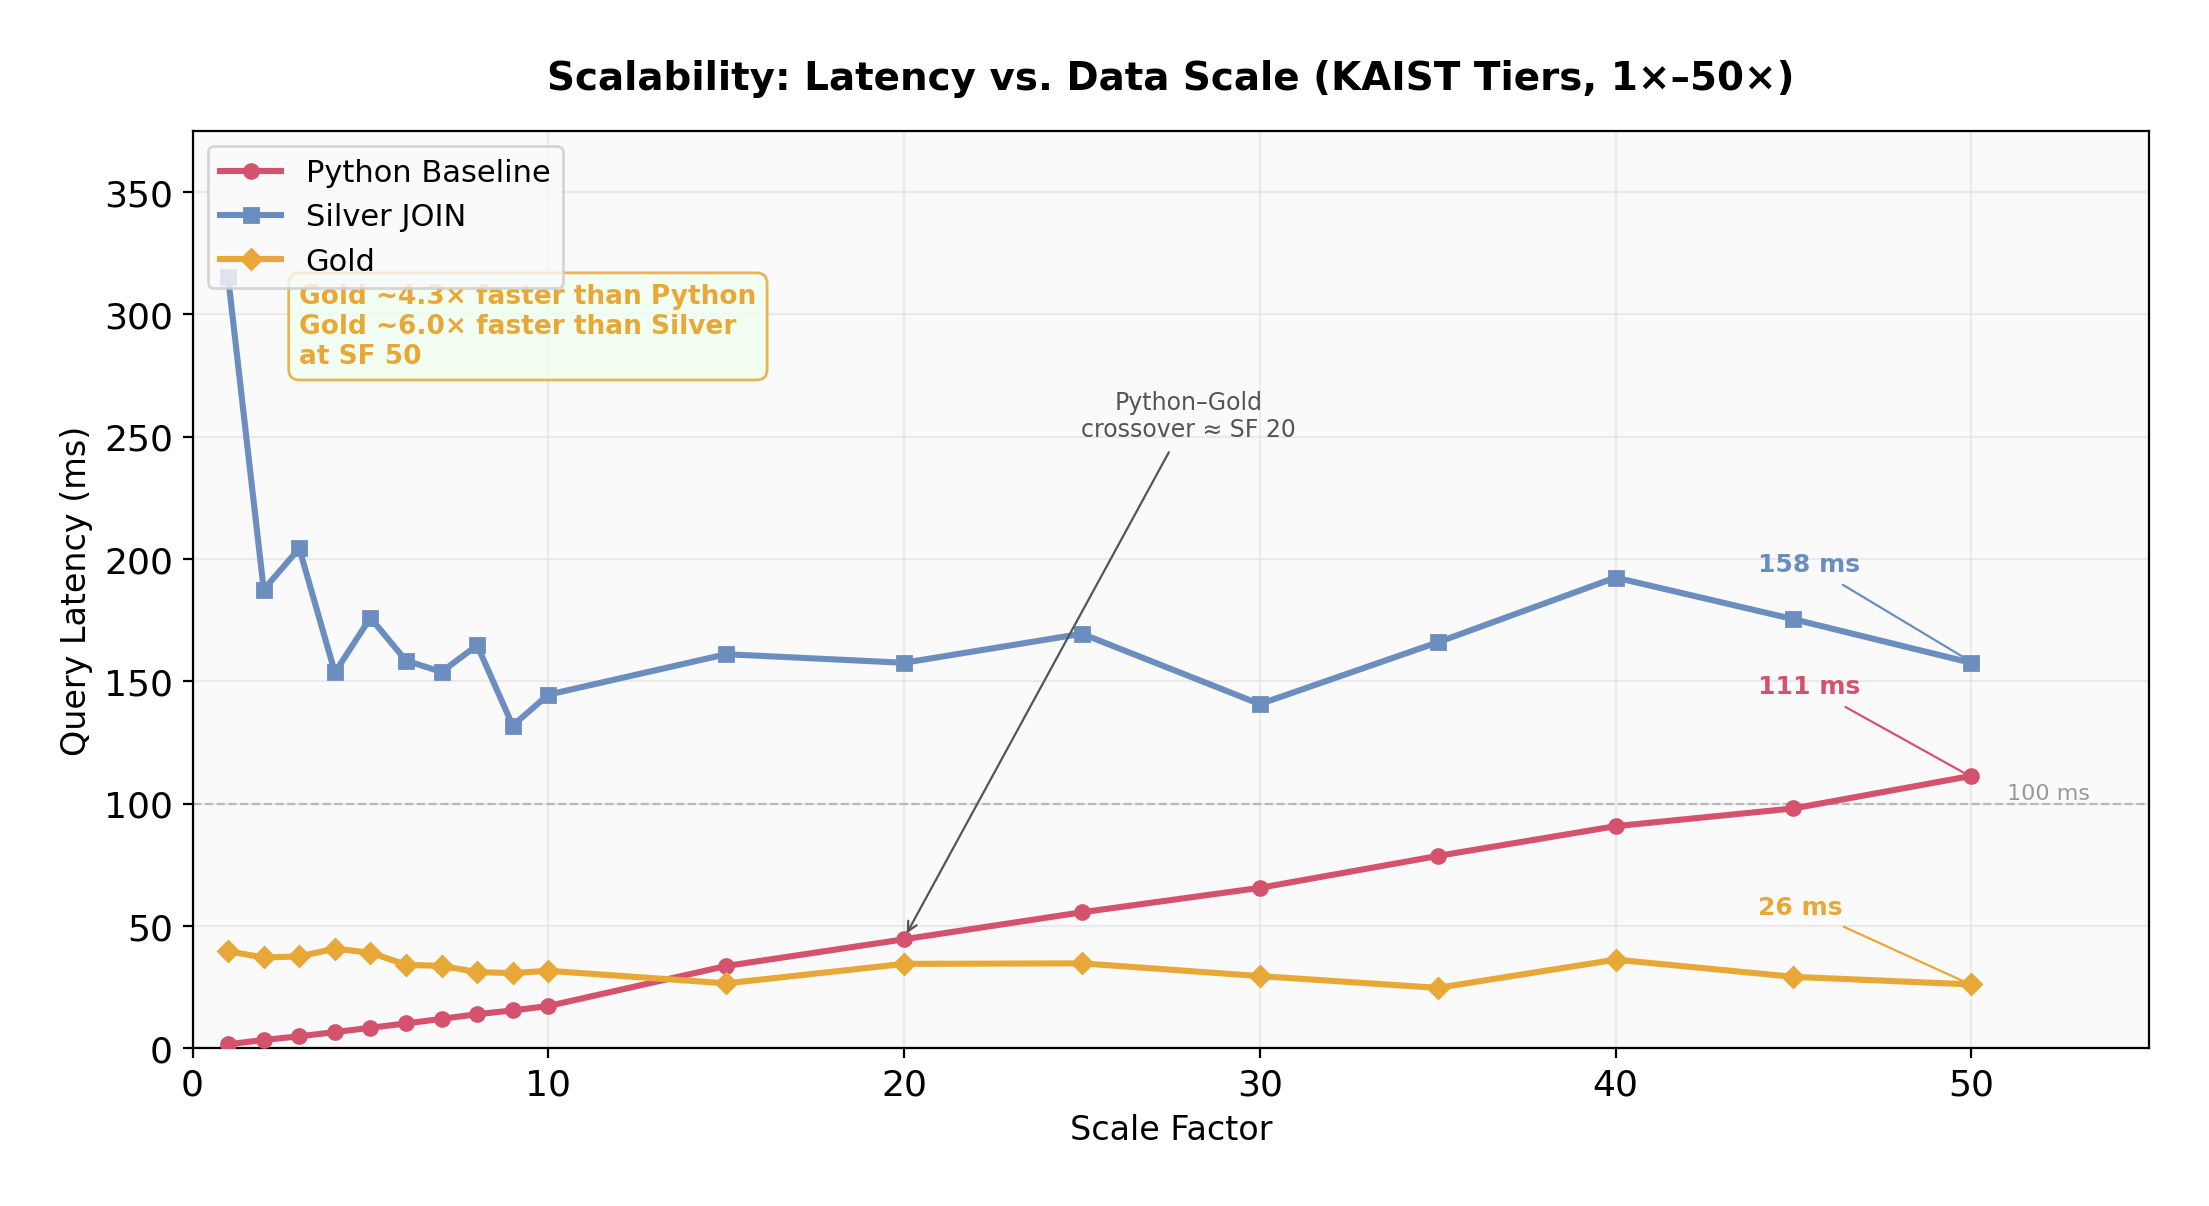
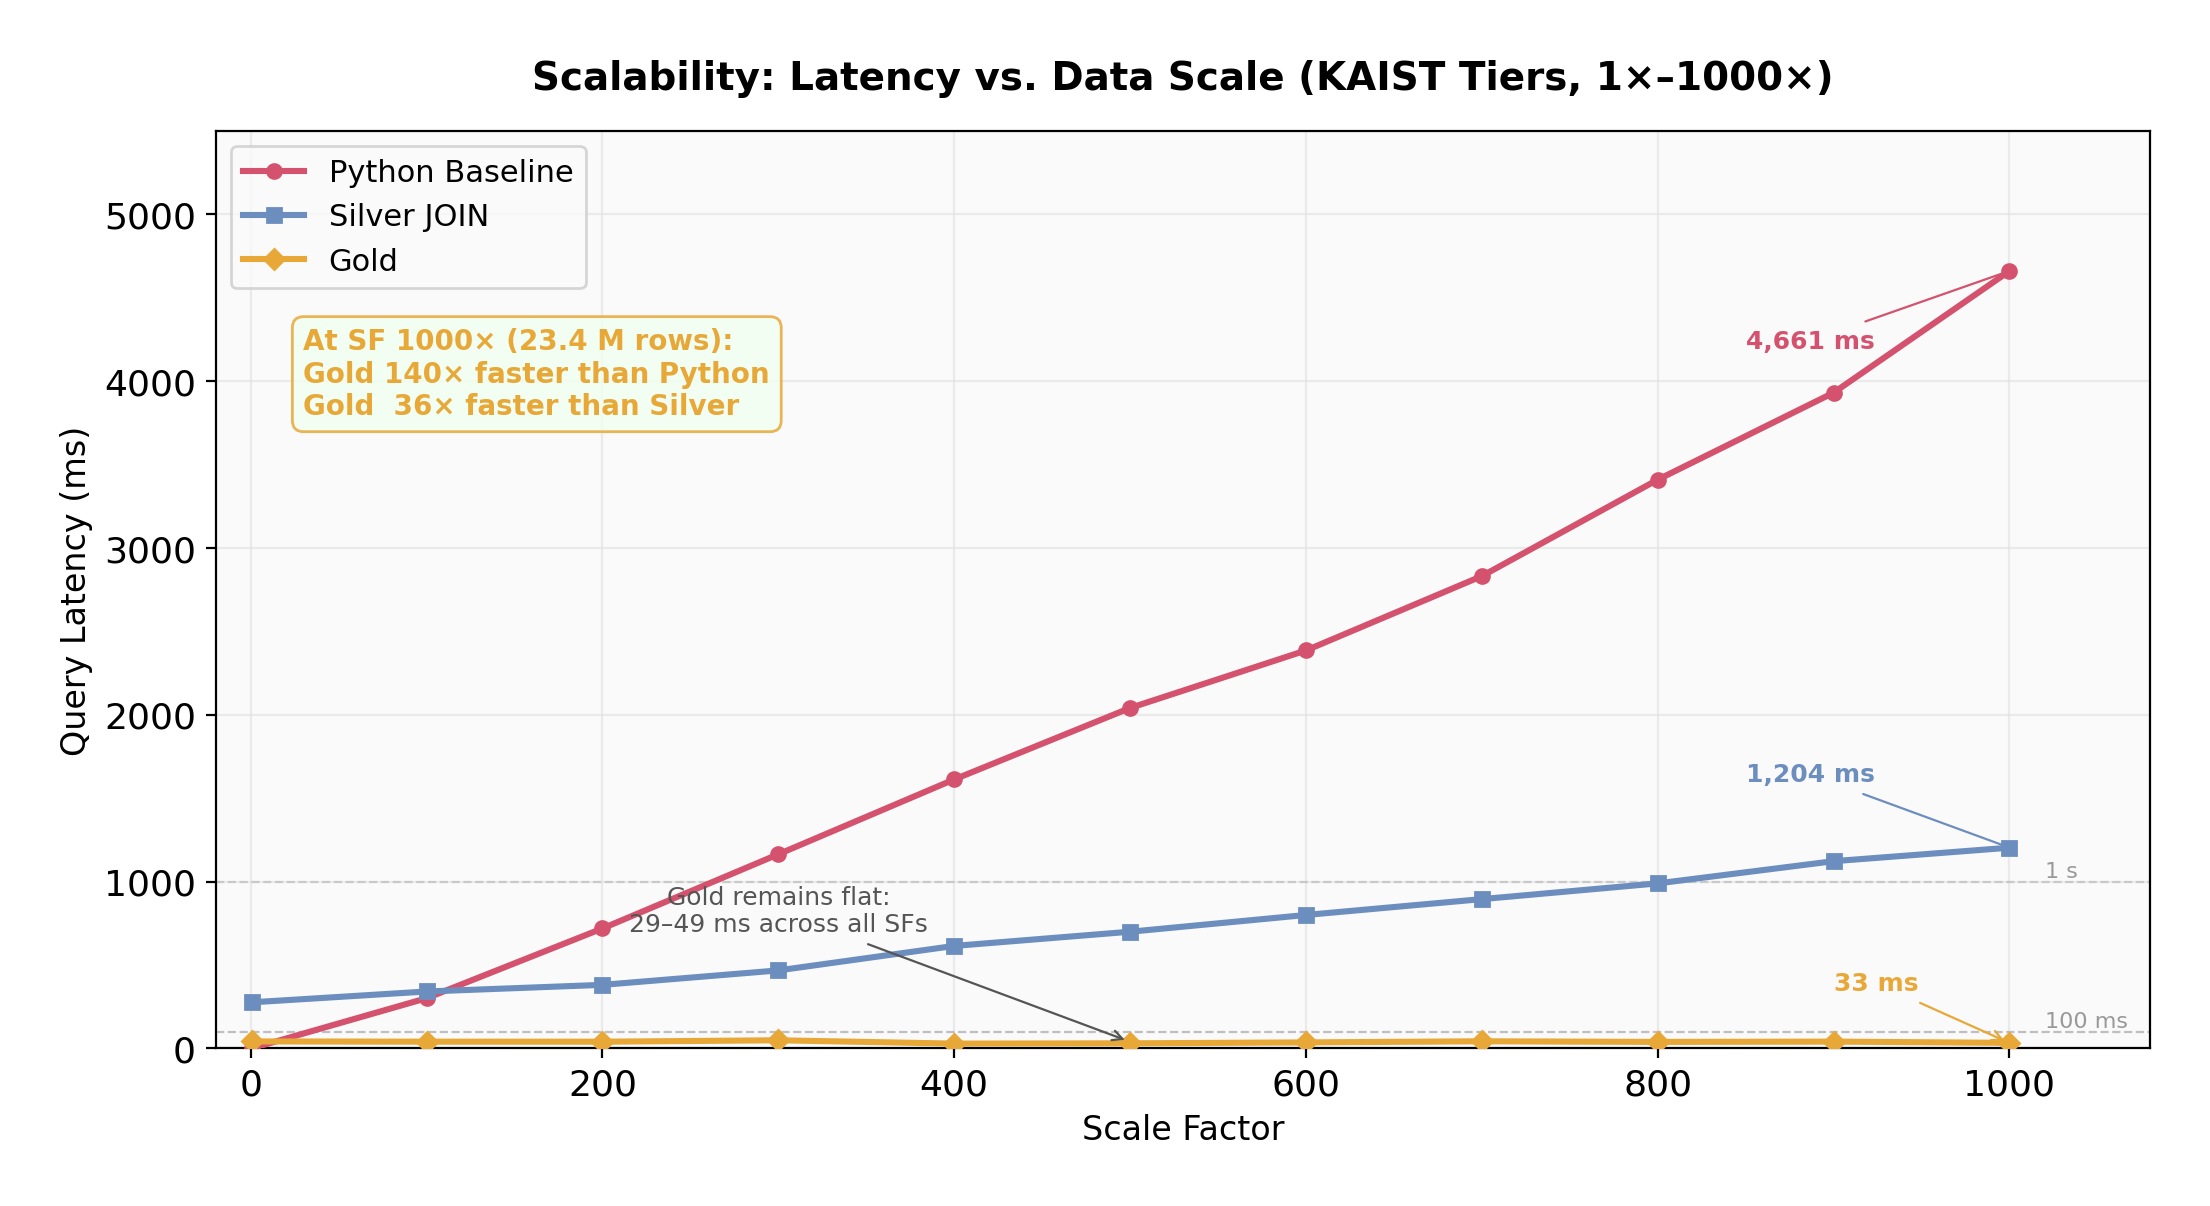
Revise KAIST scalability benchmark to use new scale factors and update elapsed times; enhance figure annotations and layout for clarity

diff --git a/Lakehouse/Iceberg/paper/generate_figures.py b/Lakehouse/Iceberg/paper/generate_figures.py
@@ -458,35 +458,39 @@ def fig5_scalability():
         ax.plot(sfs, times, marker=marker, label=strat, color=color,
                 linewidth=2.2, markersize=5, zorder=3)
 
-    # Highlight 100 ms reference line
+    # Highlight reference lines
     ax.axhline(y=100, color="#999", linestyle="--", linewidth=0.8, alpha=0.6)
-    ax.text(51, 100, "100 ms", fontsize=8, color="#999", va="bottom")
+    ax.text(1020, 100, "100 ms", fontsize=8, color="#999", va="bottom")
+    ax.axhline(y=1000, color="#999", linestyle="--", linewidth=0.8, alpha=0.4)
+    ax.text(1020, 1000, "1 s", fontsize=8, color="#999", va="bottom")
 
-    # Annotations at SF=50
-    ax.annotate("111 ms", xy=(50, 111), xytext=(44, 145), fontsize=9, color=C_PYTHON,
+    # Annotations at SF=1000
+    ax.annotate("4,661 ms", xy=(1000, 4661), xytext=(850, 4200), fontsize=9, color=C_PYTHON,
                 fontweight="bold", arrowprops=dict(arrowstyle="-", color=C_PYTHON, lw=0.8))
-    ax.annotate("158 ms", xy=(50, 158), xytext=(44, 195), fontsize=9, color=C_SILVER,
+    ax.annotate("1,204 ms", xy=(1000, 1204), xytext=(850, 1600), fontsize=9, color=C_SILVER,
                 fontweight="bold", arrowprops=dict(arrowstyle="-", color=C_SILVER, lw=0.8))
-    ax.annotate("26 ms", xy=(50, 26), xytext=(44, 55), fontsize=9, color=C_GOLD,
-                fontweight="bold", arrowprops=dict(arrowstyle="-", color=C_GOLD, lw=0.8))
+    ax.annotate("33 ms", xy=(1000, 33), xytext=(900, 350), fontsize=9, color=C_GOLD,
+                fontweight="bold", arrowprops=dict(arrowstyle="->", color=C_GOLD, lw=0.8))
 
-    # Python–Gold crossover annotation
-    ax.annotate("Python–Gold\ncrossover ≈ SF 20", xy=(20, 45), xytext=(28, 250),
-                fontsize=8.5, color="#555", ha="center",
-                arrowprops=dict(arrowstyle="->", color="#555", lw=0.8))
-
-    # Speedup box at SF=50
-    ax.text(3, 280, "Gold ~4.3× faster than Python\n"
-                     "Gold ~6.0× faster than Silver\nat SF 50",
-            fontsize=9.5, fontweight="bold", color=C_GOLD,
+    # Speedup box at SF=1000
+    ax.text(30, 3800, "At SF 1000× (23.4 M rows):\n"
+                      "Gold 140× faster than Python\n"
+                      "Gold  36× faster than Silver",
+            fontsize=10, fontweight="bold", color=C_GOLD,
             bbox=dict(boxstyle="round,pad=0.4", facecolor="#F0FFF0", edgecolor=C_GOLD, alpha=0.85))
+
+    # Gold flat-line annotation
+    ax.annotate("Gold remains flat:\n29–49 ms across all SFs",
+                xy=(500, 40), xytext=(300, 700),
+                fontsize=9, color="#555", ha="center",
+                arrowprops=dict(arrowstyle="->", color="#555", lw=0.8))
 
     ax.set_xlabel("Scale Factor", fontsize=12)
     ax.set_ylabel("Query Latency (ms)", fontsize=12)
-    ax.set_title("Scalability: Latency vs. Data Scale (KAIST Tiers, 1\u00d7\u201350\u00d7)", fontsize=14, fontweight="bold", pad=15)
+    ax.set_title("Scalability: Latency vs. Data Scale (KAIST Tiers, 1\u00d7\u20131000\u00d7)", fontsize=14, fontweight="bold", pad=15)
     ax.legend(fontsize=11, loc="upper left")
-    ax.set_xlim(0, 55)
-    ax.set_ylim(0, 375)
+    ax.set_xlim(-20, 1080)
+    ax.set_ylim(0, 5500)
     fig.tight_layout(pad=1.5)
 
     fig.savefig(OUT / "scalability.png", dpi=200, bbox_inches="tight", pad_inches=0.3)

diff --git a/Lakehouse/Iceberg/benchmarks/kaist_scalability_benchmark.py b/Lakehouse/Iceberg/benchmarks/kaist_scalability_benchmark.py
@@ -43,8 +43,8 @@ KAIST_DATA_PATH = os.environ.get("KAIST_SOURCE_PATH", "/user_data/kaist-simulate
 SCRIPT_DIR = os.path.dirname(os.path.abspath(__file__))
 OUTPUT_JSON = os.path.join(SCRIPT_DIR, "kaist_scalability_results.json")
 
-# Dense from 1-10, then every-5 to 50 → 18 scale factors
-SCALE_FACTORS = list(range(1, 11)) + [15, 20, 25, 30, 35, 40, 45, 50]
+# 1, then every 100 up to 1000 → 11 scale factors
+SCALE_FACTORS = [1] + list(range(100, 1001, 100))
 
 BASELINE_RUNS = 5
 SPARK_WARMUP = 1
